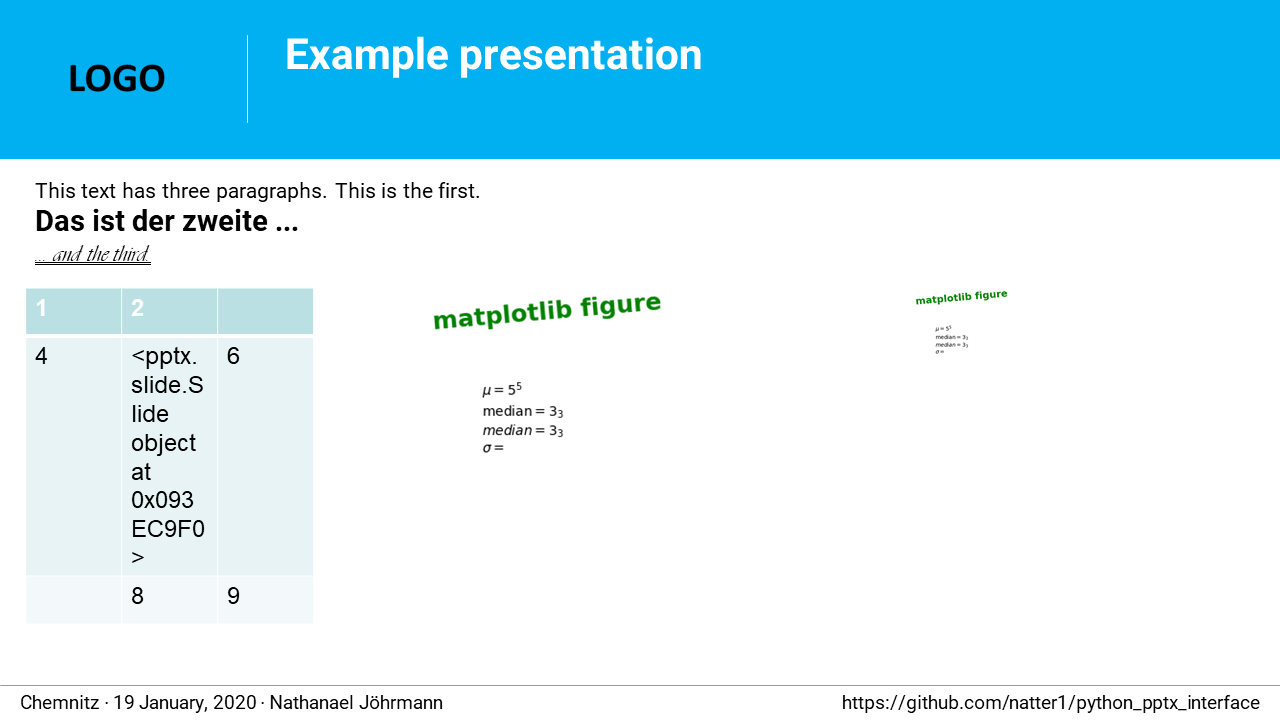
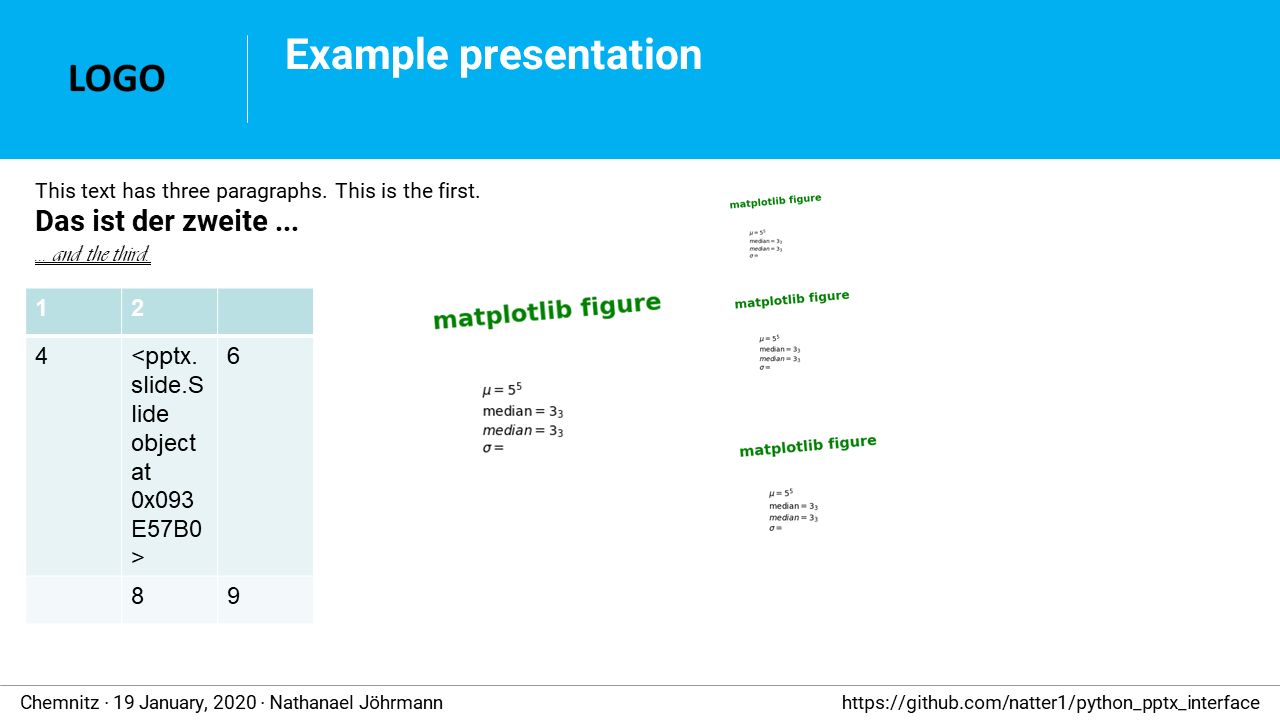
extended example improved docu

diff --git a/pptx_tools/example.py b/pptx_tools/example.py
@@ -1,7 +1,7 @@
 import os
 
 from pptx_tools.creator import PPTXCreator, PPTXPosition
-from pptx_tools.style_sheets import font_title, font_small_text, font_default
+from pptx_tools.style_sheets import font_title, font_default
 from pptx_tools.templates import TemplateExample
 
 from pptx.enum.lang import MSO_LANGUAGE_ID
@@ -43,7 +43,7 @@ def run(save_path: str = ""):
 
     title_slide = pp.add_title_slide("Example presentation")
     font = font_title()
-    font.write_shape(title_slide.shapes.title)  # you can change font attributes of paragraphs in shape via PPTXFontTool
+    font.write_shape(title_slide.shapes.title)  # change font attributes for all paragraphs in shape
 
     slide2 = pp.add_slide("page2")
     pp.add_slide("page3")
@@ -77,7 +77,9 @@ def run(save_path: str = ""):
     if matplotlib_installed:
         fig = create_demo_figure()
         pp.add_matplotlib_figure(fig, title_slide, PPTXPosition(0.3, 0.4))
-        pp.add_matplotlib_figure(fig, title_slide, PPTXPosition(0.7, 0.4), zoom=0.4)
+        pp.add_matplotlib_figure(fig, title_slide, PPTXPosition(0.3, 0.4, fig.get_figwidth(), -1.0), zoom=0.4)
+        pp.add_matplotlib_figure(fig, title_slide, PPTXPosition(0.3, 0.4, fig.get_figwidth(), 0.0), zoom=0.5)
+        pp.add_matplotlib_figure(fig, title_slide, PPTXPosition(0.3, 0.4, fig.get_figwidth(), 1.5), zoom=0.6)
 
     pp.save("example.pptx")
 

diff --git a/pptx_tools/creator.py b/pptx_tools/creator.py
@@ -78,8 +78,8 @@ class PPTXPosition:
         :param top: float [inch]
         :return: dictionary
         """
-        left = self.fraction_width_to_inch(left_rel) + left
-        top = self.fraction_height_to_inch(top_rel) + top
+        left = self.fraction_width_to_inch(left_rel) + Inches(left)
+        top = self.fraction_height_to_inch(top_rel) + Inches(top)
         return {"left": left, "top": top}
 
     def dict(self):

diff --git a/README.rst b/README.rst
@@ -25,6 +25,8 @@ Example
 .. figure:: https://github.com/natter1/python_pptx_interface/raw/master/docs/images/example01_title_slide.png
     :width: 500pt
 
+|
+
 This module comes with an `example <https://github.com/natter1/python_pptx_interface/blob/master/pptx_tools/example.py>`_,
 that you could run like
 
@@ -36,11 +38,16 @@ that you could run like
 
 This will create an example.pptx, using some of the key-features of python-pptx-interface. Lets have a closer look:
 
+|
+
 .. code:: python
 
     from pptx_tools.creator import PPTXCreator, PPTXPosition
-    from pptx_tools.style_sheets import font_title
+    from pptx_tools.style_sheets import font_title, font_default
     from pptx_tools.templates import TemplateExample
+
+    from pptx.enum.lang import MSO_LANGUAGE_ID
+    from pptx.enum.text import MSO_TEXT_UNDERLINE_TYPE
 
     try:
         import matplotlib.pyplot as plt
@@ -56,7 +63,11 @@ and also setting some texts on the master slides like author, date and website. 
 on how to use your own template files by subclassing AbstractTemplate
 (you need at least to specify a path to your template and define a default_layout and a title_layout).
 
+**MSO_LANGUAGE_ID** is used to set the language of text and **MSO_TEXT_UNDERLINE_TYPE** is used to format underlining.
+
 Importing matplotlib is optional - it is used to demonstrate, how to get a matplotlib figure into your presentation.
+
+|
 
 .. code:: python
 
@@ -65,9 +76,11 @@ Importing matplotlib is optional - it is used to demonstrate, how to get a matpl
 
         title_slide = pp.add_title_slide("Example presentation")
         font = font_title()
-        font.write_shape(title_slide.shapes.title)  # you can change font attributes of paragraphs in shape via PPTXFontTool
+        font.write_shape(title_slide.shapes.title)  # change font attributes for all paragraphs in shape
 
 Now we create our presentation, add a title slide and change the font style of the title using title_font().
+
+|
 
 .. code:: python
 
@@ -76,19 +89,44 @@ Now we create our presentation, add a title slide and change the font style of t
         pp.add_slide("page4")
         content_slide = pp.add_content_slide()
 
-Next, we add thre more slides, and create a content slide with hyperlinks to all other slides. By default,
+Next, we add three more slides, and create a content slide with hyperlinks to all other slides. By default,
 it is put to the second position (you could specify the position using the optional slide_index parameter).
+
+.. figure:: https://github.com/natter1/python_pptx_interface/raw/master/docs/images/example01_content_slide.png
+    :width: 500pt
+
+|
+
+Lets add some more stuff to the title slide.
 
 .. code:: python
 
-        if matplotlib_installed:
-            fig = create_demo_figure()
-            pp.add_matplotlib_figure(fig, title_slide, PPTXPosition(0.3, 0.4))
-            pp.add_matplotlib_figure(fig, title_slide, PPTXPosition(0.7, 0.4), zoom=0.4)
+    text = "This text has three paragraphs. This is the first.\n" \
+           "Das ist der zweite ...\n" \
+           "... and the third."
+    my_font = font_default()
+    my_font.size = 16
+    text_shape = pp.add_text_box(title_slide, text, PPTXPosition(0.02, 0.24), my_font)
 
-If matplotlib is installed, we use it to create a demo figure, and add it to the title_slide.
-With PPTXPosition(0.3, 0.4) we position the figure 0.3 slide widths from left and 0.4 slide heights from top.
-PPTXPosition has two more optional parameters, to further position with inches values (starting from the relative position).
+**PPTXCreator.add_text_box()** places a new text shape on a slide with the given text.
+Optionally it accepts a PPTXPosition and a PPTXFont. With PPTXPosition(0.02, 0.24)
+we position the figure 0.02 slide widths from left and 0.24 slide heights from top.
+
+|
+
+.. code:: python
+    my_font.set(size=22, bold=True, language_id=MSO_LANGUAGE_ID.GERMAN)
+    my_font.write_paragraph(text_shape.text_frame.paragraphs[1])
+
+    my_font.set(size=18, bold=False, italic=True, name="Vivaldi",
+                language_id=MSO_LANGUAGE_ID.ENGLISH_UK,
+                underline=MSO_TEXT_UNDERLINE_TYPE.WAVY_DOUBLE_LINE)
+    my_font.write_paragraph(text_shape.text_frame.paragraphs[2])
+
+We can use my_font to format individual paragraphs in a text_frame with **PPTXFont.write_paragraph()**.
+Via **PPTXFont.set()** easily customize the font before using it.
+
+|
 
 .. code:: python
 
@@ -100,14 +138,34 @@ PPTXPosition has two more optional parameters, to further position with inches v
         pp.add_table(slide2, table_data)
 
 we can also easily add a table. First we define all the data we want to put in the table. Here we use a list of lists.
-But add_table is more flexible and can work ith anything, thats an Iterable of Iterable. The outer iterable defines,
+But add_table is more flexible and can work with anything, that is an Iterable of Iterable. The outer iterable defines,
 how many rows the table will have. The longest inner iterable is used to get the number of columns.
+
+|
+
+.. code:: python
+
+        if matplotlib_installed:
+            fig = create_demo_figure()
+            pp.add_matplotlib_figure(fig, title_slide, PPTXPosition(0.3, 0.4))
+            pp.add_matplotlib_figure(fig, title_slide, PPTXPosition(0.3, 0.4, fig.get_figwidth(), -1.0), zoom=0.4)
+            pp.add_matplotlib_figure(fig, title_slide, PPTXPosition(0.3, 0.4, fig.get_figwidth(), 0.0), zoom=0.5)
+            pp.add_matplotlib_figure(fig, title_slide, PPTXPosition(0.3, 0.4, fig.get_figwidth(), 1.5), zoom=0.6)
+
+
+If matplotlib is installed, we use it to create a demo figure, and add it to the title_slide.
+With PPTXPosition(0.3, 0.4) we position the figure 0.3 slide widths from left and 0.4 slide heights from top.
+PPTXPosition has two more optional parameters, to further position with inches values (starting from the relative position).
+
+|
 
 .. code:: python
 
         pp.save("example.pptx")
 
 Finally, we save the example as example.pptx.
+
+|
 
 If you are on windows an have PowerPoint installed, you could use some additional features.
 
@@ -126,7 +184,6 @@ If you are on windows an have PowerPoint installed, you could use some additiona
     except:
         pass
 
-As you can see, you could use PowerPoint to save your presentation in other file formats.
 
 Requirements
 ------------
@@ -137,8 +194,8 @@ Requirements
 Optional requirements
 ---------------------
 * matplotlib (adding matplotlib figures to presentation)
-* comtypes  (create pdfs or pngs)
-* PowerPoint (create pdfs or pngs)
+* comtypes  (create PDF's or PNG's)
+* PowerPoint (create PDF's or PNG's)
 
 Contribution
 ------------
